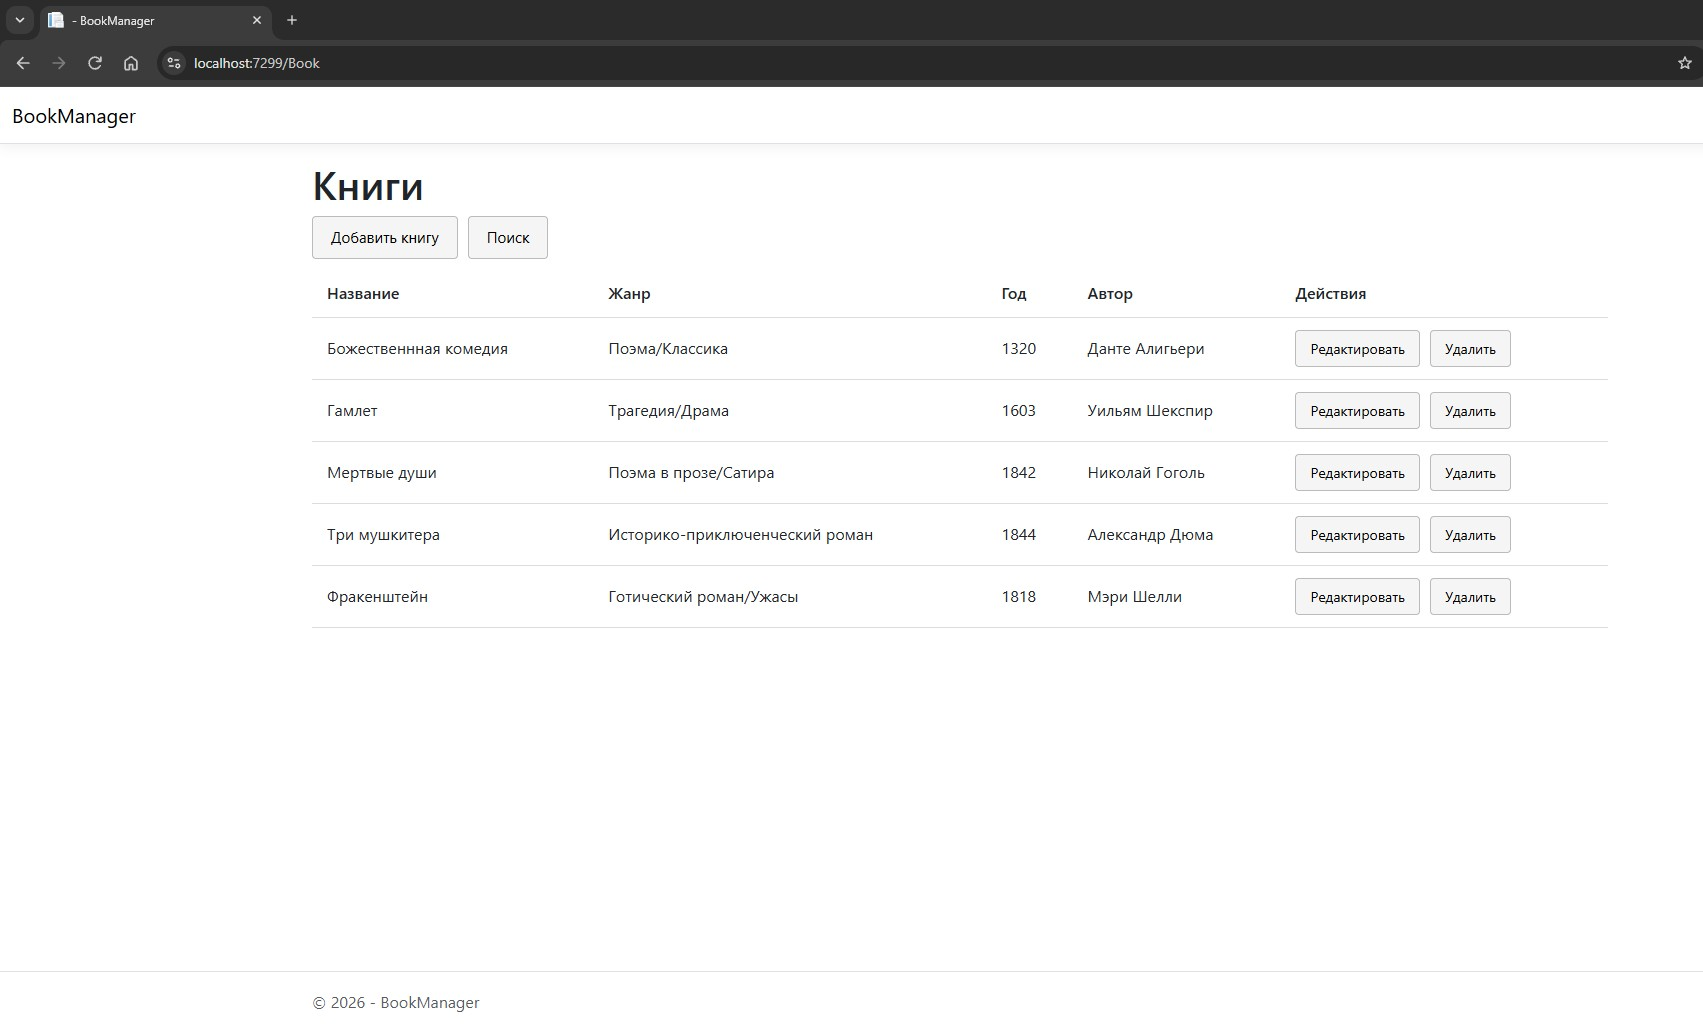
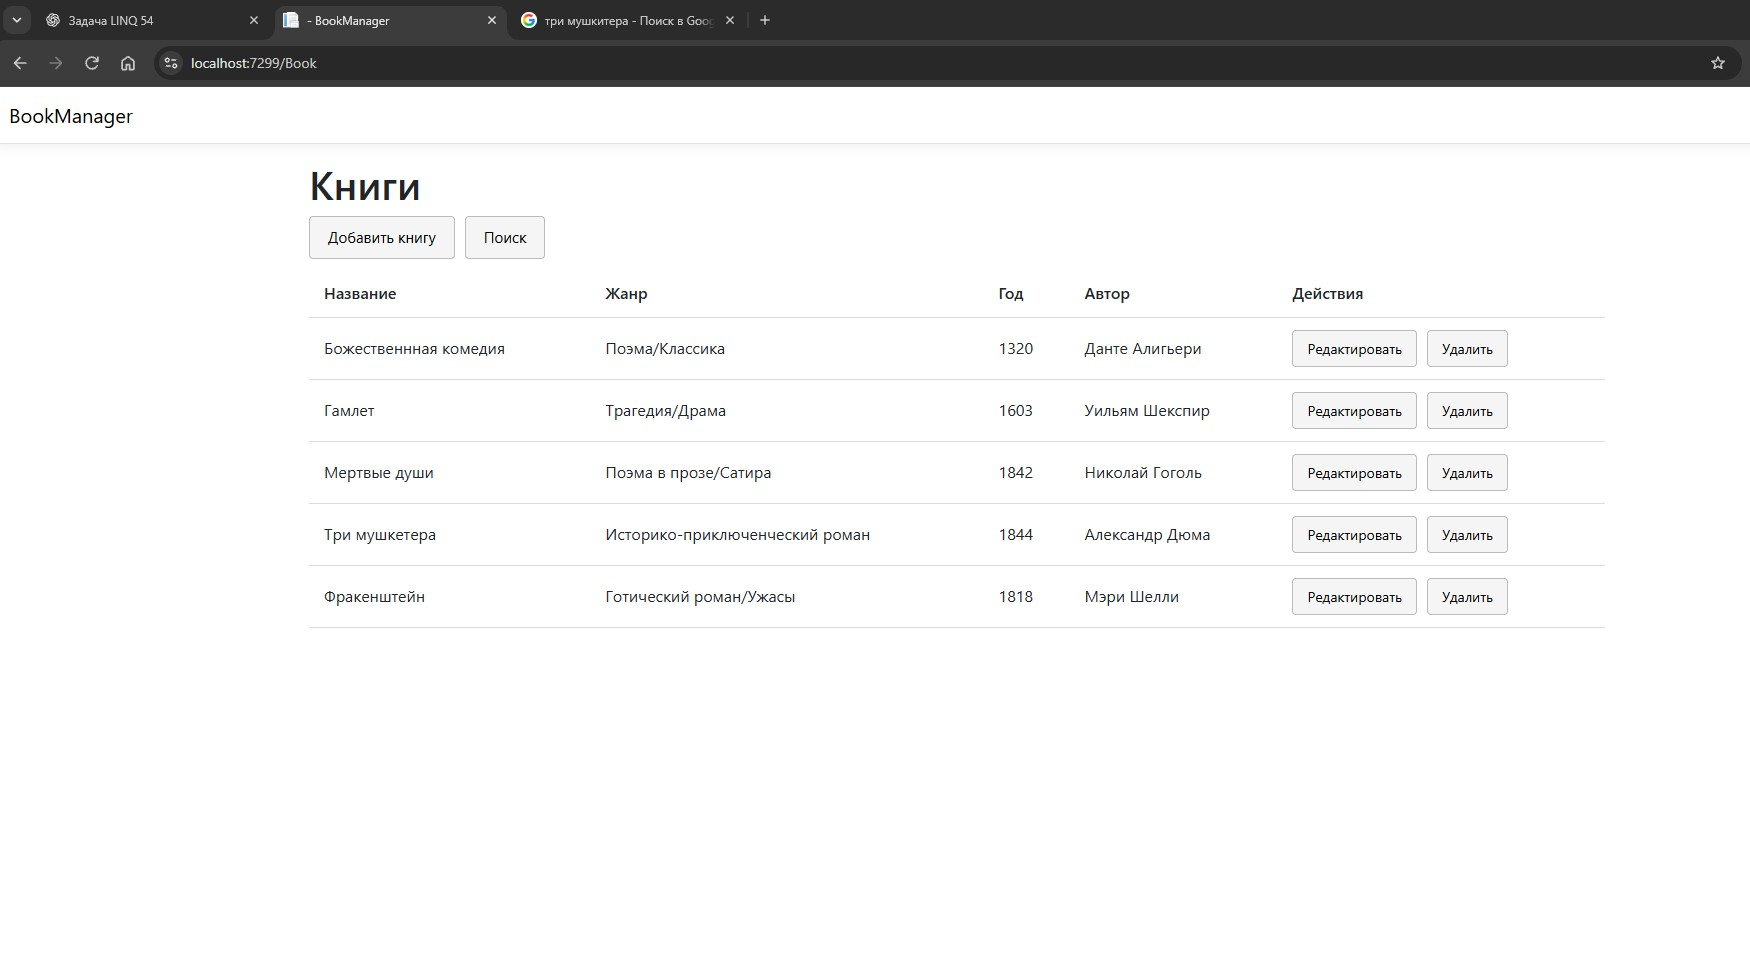
Исправление багов

diff --git a/BookManager/wwwroot/css/book/book.css b/BookManager/wwwroot/css/book/book.css
@@ -107,3 +107,35 @@ color:#d00;
 	border-radius: 4px;
 	background: #f5f5f5;
 }
+
+.message-dialog {
+	position: fixed;
+	top: 50%;
+	left: 50%;
+	transform: translate(-50%, -50%);
+	margin: 0;
+	padding: 24px;
+	min-width: 300px;
+	max-width: 90%;
+	border: none;
+	border-radius: 10px;
+	box-shadow: 0 4px 16px rgba(0, 0, 0, 0.25);
+	text-align: center;
+}
+
+	.message-dialog::backdrop {
+		background: rgba(0, 0, 0, 0.45);
+	}
+
+	.message-dialog p {
+		margin: 0 0 20px;
+	}
+
+	.message-dialog button {
+		padding: 8px 24px;
+		cursor: pointer;
+	}
+
+	.message-dialog[open] {
+		display: block;
+	}

diff --git a/BookManager/Controllers/BookController.cs b/BookManager/Controllers/BookController.cs
@@ -67,6 +67,16 @@ namespace BookManager.Controllers
 				return RedirectToAction("Index");
 			}
 
+			if(string.IsNullOrWhiteSpace(title)||
+			string.IsNullOrWhiteSpace(genre)||
+			string.IsNullOrWhiteSpace(authorName)||
+			year<1 || year > 2100)
+			{
+				TempData["EditError"] = "Пожалуйста,заполните все поля корректно";
+				return RedirectToAction("Index");
+				
+			}
+
 			var author = _context.Authors.FirstOrDefault(a => a.Name == authorName);
 
 			if (author == null)
